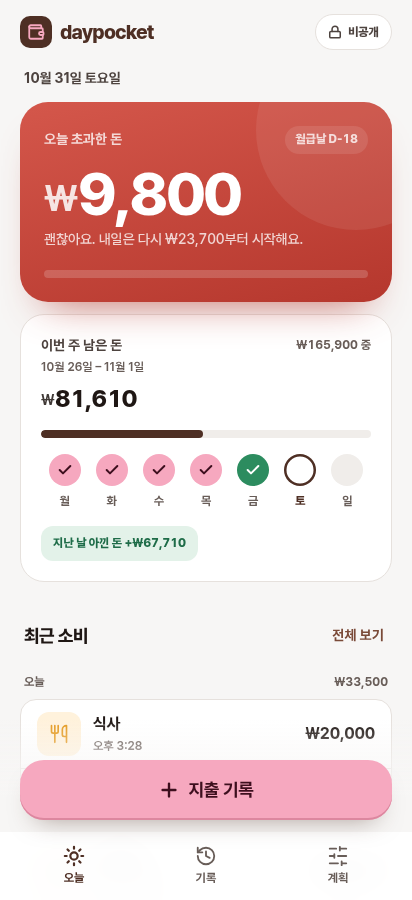
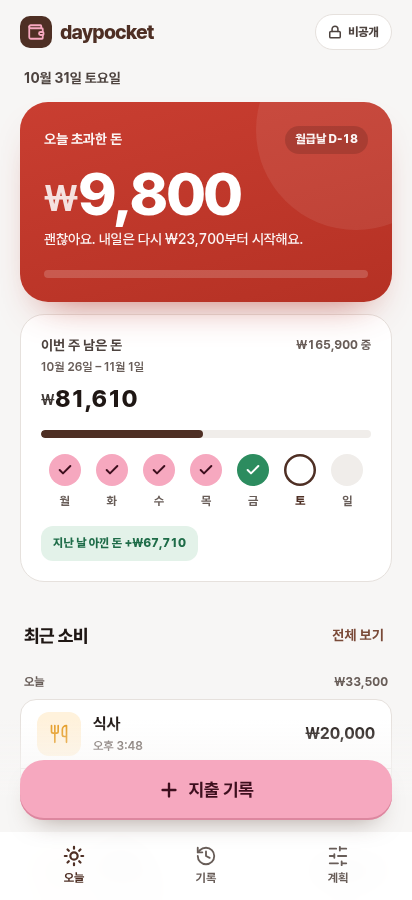
Final five palettes: J navy & lime refined, H, I, K merlot & ice, L olive & mango
- J keeps the original navy and lime; removes lime glow and circle, adds depth gradient
- K and L fill the chic and natural concepts; key hues stay 47+ deg apart
- Unify the over-budget card red across all palettes so small white text passes 4.5:1
- PALETTES.md: final board, concept and hue checks, contrast table; earlier picks kept for reference

diff --git a/prototype/themes/olive.css b/prototype/themes/olive.css
@@ -1,0 +1,23 @@
+/* L. 올리브 & 망고 — palette candidate. Dark olive main with a bright mango key.
+   Overrides tokens in ../styles.css. See ../PALETTES.md. */
+:root {
+  --navy-900:#262E14; --navy-700:#38431F; --navy-500:#56662B;
+  --lime-400:#FFB547; --lime-600:#E0952A; --lime-ink:#3A2400;
+  --bg:#F5F6F4; --surface:#FFFFFF; --fill:#EDEFEA; --line:#E1E4DC;
+  --text-1:#171B12; --text-2:#444B3C; --text-3:#5F6657; --text-4:#A9AEA2;
+  --pos:#2C8C5F; --pos-soft:#E2F2E8; --pos-ink:#1E6C48;
+  --neg:#D0453A; --neg-soft:#FCE6E2; --neg-ink:#BC372C;
+  --warn-soft:#FFF4DC; --warn-ink:#6A4E10;
+}
+body { background:#E5E7E1; }
+.hero, .stat.hero-stat, .dark { background: linear-gradient(165deg, #4B5A2A 0%, #38431F 55%, #2B3417 100%); }
+.hero { box-shadow: 0 24px 40px -26px rgba(38,46,20,.85); }
+.hero::after, .stat.hero-stat::after { background:#FFB547; opacity:.1; }
+.dark::after { background:#FFB547; opacity:.14; filter: blur(30px); }
+.hero-badge { background: rgba(0,0,0,.2); color:#fff; }
+.hero.over::after { background:#fff; opacity:.08; }
+.btn-lime { box-shadow: inset 0 -2px 0 var(--lime-600), 0 14px 26px -16px rgba(56,67,31,.5); }
+.priv-pts span { background: rgba(255,181,71,.16); }
+.cal-d.good, .legend .lg-good { background:#FFF0D3; color:#764B00; box-shadow:none; }
+.preview { background:#F1F3EE; }
+.tabbar::before { background: linear-gradient(to top, var(--bg) 30%, rgba(245,246,244,0)); }

diff --git a/prototype/styles.css b/prototype/styles.css
@@ -238,7 +238,8 @@ html[lang="ko"] .eyebrow, html[lang="ko"] .pill-private { letter-spacing: 0; }
 .hero { position: relative; overflow: hidden; padding: var(--s6); border-radius: var(--r-xl); color: #fff; background: radial-gradient(90% 90% at 100% 0%, var(--navy-500) 0%, rgba(51, 70, 184, 0) 60%), var(--navy-700); box-shadow: 0 20px 40px -24px rgba(26, 43, 133, .85); transition: background var(--t-slow) var(--ease), box-shadow var(--t-slow); }
 .hero::after { content: ""; position: absolute; top: -72px; right: -64px; width: 200px; height: 200px; border-radius: 50%; background: var(--lime-400); opacity: .12; pointer-events: none; }
 .hero > * { position: relative; z-index: 1; }
-.hero.over { background: radial-gradient(90% 90% at 100% 0%, #F07B6C 0%, rgba(240, 123, 108, 0) 60%), var(--neg); box-shadow: 0 20px 40px -24px rgba(210, 63, 49, .85); }
+/* Over budget: one red for every palette, dark enough that small white text stays above 4.5:1. */
+.hero.over { --on-dark-2: rgba(255, 255, 255, .95); --on-dark-3: rgba(255, 255, 255, .95); --on-dark-fill: rgba(0, 0, 0, .14); background: linear-gradient(165deg, #C93E31 0%, #B53124 100%); box-shadow: 0 20px 40px -24px rgba(181, 49, 36, .8); }
 .hero.over::after { background: #fff; opacity: .1; }
 .hero-top { display: flex; justify-content: space-between; align-items: center; }
 .hero-label { font-size: 14px; font-weight: 700; color: var(--on-dark-2); }

diff --git a/prototype/themes/merlot.css b/prototype/themes/merlot.css
@@ -1,0 +1,22 @@
+/* K. 멀롯 & 아이스 — palette candidate. Warm wine main with a cool ice-blue key.
+   Overrides tokens in ../styles.css. See ../PALETTES.md. */
+:root {
+  --navy-900:#3A0F25; --navy-700:#561B3A; --navy-500:#8A3562;
+  --lime-400:#BFE0FF; --lime-600:#8FC0EE; --lime-ink:#0B2A4A;
+  --bg:#F7F6F8; --surface:#FFFFFF; --fill:#F0EDF0; --line:#E6E1E6;
+  --text-1:#1E1419; --text-2:#4C4047; --text-3:#675B62; --text-4:#B1A7AD;
+  --pos:#1F9D63; --pos-soft:#E2F5EC; --pos-ink:#157A4B;
+  --neg:#D9443A; --neg-soft:#FDE7E4; --neg-ink:#C1362B;
+  --warn-soft:#FFF6D6; --warn-ink:#6B5300;
+}
+body { background:#E8E4E8; }
+.hero, .stat.hero-stat, .dark { background: linear-gradient(165deg, #742A4F 0%, #561B3A 55%, #43142D 100%); }
+.hero { box-shadow: 0 24px 40px -26px rgba(58,15,37,.85); }
+.hero::after, .stat.hero-stat::after { background:#BFE0FF; opacity:.1; }
+.dark::after { background:#BFE0FF; opacity:.14; filter: blur(30px); }
+.hero.over::after { background:#fff; opacity:.08; }
+.btn-lime { box-shadow: inset 0 -2px 0 var(--lime-600), 0 14px 26px -16px rgba(86,27,58,.5); }
+.priv-pts span { background: rgba(191,224,255,.16); }
+.cal-d.good, .legend .lg-good { background:#E6F1FF; color:#1E4E86; box-shadow:none; }
+.preview { background:#F3EFF3; }
+.tabbar::before { background: linear-gradient(to top, var(--bg) 30%, rgba(247,246,248,0)); }

diff --git a/prototype/themes/navylime.css b/prototype/themes/navylime.css
@@ -1,0 +1,15 @@
+/* J. 네이비 & 라임 (다듬은 버전) — the original colors, kept, with the cheap-looking effects removed.
+   Same navy and lime as the default; cooler neutral background; no lime glow; no big circle.
+   Overrides tokens in ../styles.css. See ../PALETTES.md. */
+:root {
+  --navy-900:#111C5C; --navy-700:#1A2B85; --navy-500:#3346B8;
+  --lime-400:#CFF56B; --lime-600:#A6D33B; --lime-ink:#1C2606;
+  --bg:#F5F6FA; --surface:#FFFFFF; --fill:#EDF0F7; --line:#E2E5EE;
+}
+body { background:#E4E7EF; }
+.hero, .stat.hero-stat, .dark { background: linear-gradient(165deg, #2A3DA6 0%, #1A2B85 55%, #142270 100%); }
+.hero { box-shadow: inset 0 1px 0 rgba(207,245,107,.35), 0 24px 40px -26px rgba(26,43,133,.85); }
+.hero::after, .hero.over::after, .stat.hero-stat::after { opacity: 0; }
+.dark::after { opacity: .1; filter: blur(40px); }
+.btn-lime { box-shadow: inset 0 -2px 0 var(--lime-600), 0 14px 26px -16px rgba(26,43,133,.55); }
+.tabbar::before { background: linear-gradient(to top, var(--bg) 30%, rgba(245,246,250,0)); }

diff --git a/prototype/themes/plum.css b/prototype/themes/plum.css
@@ -12,7 +12,6 @@ body { background:#EAE3E2; }
 .hero, .stat.hero-stat, .dark { background: linear-gradient(165deg, #452A68 0%, #2D1A45 60%, #23143A 100%); }
 .hero { box-shadow: 0 24px 40px -28px rgba(28,15,43,.9); }
 .hero::after, .stat.hero-stat::after, .dark::after { background:#FFD45E; opacity:.13; }
-.hero.over { background: linear-gradient(165deg, #E0566E 0%, #BB2F4A 100%); }
 .hero.over::after { background:#fff; opacity:.1; }
 .btn-lime { box-shadow: inset 0 -2px 0 var(--lime-600), 0 14px 26px -16px rgba(45,26,69,.55); }
 .cal-d.good, .legend .lg-good { background:#FFF1C4; color:#7A5A00; box-shadow:none; }

diff --git a/prototype/themes/teal.css b/prototype/themes/teal.css
@@ -12,7 +12,6 @@ body { background:#E9E1D4; }
 .hero, .stat.hero-stat, .dark { background: linear-gradient(165deg, #186068 0%, #0F4A52 60%, #0A3C43 100%); }
 .hero { box-shadow: 0 24px 40px -28px rgba(8,52,58,.9); }
 .hero::after, .stat.hero-stat::after, .dark::after { background:#FFB27C; opacity:.14; }
-.hero.over { background: linear-gradient(165deg, #D4573F 0%, #B23A28 100%); }
 .hero.over::after { background:#fff; opacity:.1; }
 .btn-lime { box-shadow: inset 0 -2px 0 var(--lime-600), 0 14px 26px -16px rgba(15,74,82,.55); }
 .cal-d.good, .legend .lg-good { background:#FCE8D9; color:#8A4516; box-shadow:none; }

diff --git a/prototype/themes/midnight.css b/prototype/themes/midnight.css
@@ -13,7 +13,6 @@ body { background:#E7E5DD; }
 .hero { box-shadow: inset 0 1px 0 rgba(215,243,107,.28), 0 24px 40px -28px rgba(10,16,41,.9); }
 .hero::after, .hero.over::after, .stat.hero-stat::after { opacity: 0; }
 .dark::after { opacity: .07; filter: blur(40px); }
-.hero.over { background: linear-gradient(165deg, #D85A4C 0%, #B83A2E 100%); box-shadow: 0 24px 40px -28px rgba(184,58,46,.9); }
 .btn-lime { box-shadow: inset 0 -2px 0 var(--lime-600), 0 14px 26px -16px rgba(18,26,58,.6); }
 .cal-d.good, .legend .lg-good { background:#EFF6CF; color:#4A5A10; box-shadow:none; }
 .preview { background:#F1F0EA; }

diff --git a/prototype/themes/clear.css b/prototype/themes/clear.css
@@ -18,7 +18,6 @@ body { background:#E4EAF1; }
 .hero { box-shadow: 0 24px 40px -26px rgba(9,86,204,.7); }
 .hero::after, .stat.hero-stat::after { background:#fff; opacity:.08; }
 .dark::after { background:#86EEE0; opacity:.16; filter: blur(30px); }
-.hero.over { background: linear-gradient(165deg, #C93E31 0%, #B53124 100%); box-shadow: 0 24px 40px -26px rgba(181,49,36,.75); }
 .hero.over::after { background:#fff; opacity:.08; }
 .hero-badge { background: rgba(4,30,80,.22); color:#fff; }
 .btn-lime { box-shadow: inset 0 -2px 0 var(--lime-600), 0 14px 26px -16px rgba(9,86,204,.45); }

diff --git a/prototype/themes/cocoa.css b/prototype/themes/cocoa.css
@@ -14,7 +14,6 @@ body { background:#E9E5E2; }
 .hero { box-shadow: 0 24px 40px -26px rgba(54,32,26,.85); }
 .hero::after, .stat.hero-stat::after { background:#F6A8BF; opacity:.12; }
 .dark::after { background:#F6A8BF; opacity:.14; filter: blur(30px); }
-.hero.over { background: linear-gradient(165deg, #D4574B 0%, #B5372D 100%); box-shadow: 0 24px 40px -26px rgba(181,55,45,.8); }
 .hero.over::after { background:#fff; opacity:.08; }
 .btn-lime { box-shadow: inset 0 -2px 0 var(--lime-600), 0 14px 26px -16px rgba(78,47,36,.5); }
 .priv-pts span { background: rgba(246,168,191,.16); }

diff --git a/prototype/themes/pine.css b/prototype/themes/pine.css
@@ -13,7 +13,6 @@ body { background:#E5E9E7; }
 .hero { box-shadow: 0 24px 40px -26px rgba(15,46,35,.85); }
 .hero::after, .stat.hero-stat::after { background:#EBCB8B; opacity:.1; }
 .dark::after { background:#EBCB8B; opacity:.12; filter: blur(30px); }
-.hero.over { background: linear-gradient(165deg, #D35A4C 0%, #B53A2E 100%); box-shadow: 0 24px 40px -26px rgba(181,58,46,.8); }
 .hero.over::after { background:#fff; opacity:.08; }
 .btn-lime { box-shadow: inset 0 -2px 0 var(--lime-600), 0 14px 26px -16px rgba(23,64,47,.5); }
 .priv-pts span { background: rgba(235,203,139,.16); }

diff --git a/prototype/theme.js b/prototype/theme.js
@@ -3,7 +3,8 @@
 (function () {
   var THEMES = {
     midnight: '#121A3A', teal: '#0F4A52', plum: '#2D1A45', clear: '#0956CC', pine: '#17402F', mono: '#111111',
-    plumlime: '#2D1A45', cocoa: '#4E2F24', monolav: '#111111'
+    plumlime: '#2D1A45', cocoa: '#4E2F24', monolav: '#111111',
+    navylime: '#1A2B85', merlot: '#561B3A', olive: '#38431F'
   };
   var name = new URLSearchParams(location.search).get('theme');
   if (!Object.prototype.hasOwnProperty.call(THEMES, name)) return;

diff --git a/prototype/PALETTES.md b/prototype/PALETTES.md
@@ -1,93 +1,88 @@
 # 색 조합 시안
 
-기본 화면(`styles.css`)은 바꾸지 않았고, 각 시안은 `themes/` 폴더의 CSS가 색 기준값(토큰)만 덮어씁니다. 주소 끝에 `?theme=이름`을 붙이면 실제 앱이 그 색으로 열립니다. "샘플 데이터로 둘러보기"를 누르면 오늘·기록·계획 화면까지 볼 수 있습니다.
+기본 화면(`styles.css`)의 색은 바꾸지 않았고, 각 시안은 `themes/` 폴더의 CSS가 색 기준값(토큰)만 덮어씁니다. 주소 끝에 `?theme=이름`을 붙이면 실제 앱이 그 색으로 열립니다. "샘플 데이터로 둘러보기"를 누르면 오늘·기록·계획 화면까지 볼 수 있습니다.
 
-## 추천 5개
-![추천 5개 비교](palettes/picks-board.png)
+## 최종 후보 5개
+![최종 후보 5개](palettes/final-board.png)
 
-| | 이름 | 바탕 / 메인 / 키 | 맡는 자리 | 링크 |
+| | 이름 | 바탕 / 메인 / 키 | 컨셉 | 링크 |
 |---|---|---|---|---|
-| D | 클리어 블루 & 아쿠아 | `#F6F8FB` / `#0956CC` / `#86EEE0` | 차갑고 가벼운 | https://smhan-dev.github.io/household-ledger-app/prototype/?theme=clear |
-| E | 윈터 파인 & 샴페인 | `#F6F7F7` / `#17402F` / `#EBCB8B` | 겨울, 차분한 온기 | https://smhan-dev.github.io/household-ledger-app/prototype/?theme=pine |
-| G | 플럼 & 라임 (새로 만듦) | `#F7F6F9` / `#2D1A45` / `#CFF56B` | 개성, 처음 라임 계승 | https://smhan-dev.github.io/household-ledger-app/prototype/?theme=plumlime |
-| H | 코코아 & 로즈 (새로 만듦) | `#F7F6F5` / `#4E2F24` / `#F6A8BF` | 따뜻한 메인 색 | https://smhan-dev.github.io/household-ledger-app/prototype/?theme=cocoa |
-| I | 모노 & 라벤더 (새로 만듦) | `#F5F5F5` / `#111111` / `#C4B5FD` | 미니멀 | https://smhan-dev.github.io/household-ledger-app/prototype/?theme=monolav |
+| J | 네이비 & 라임 (다듬은 버전) | `#F5F6FA` / `#1A2B85` / `#CFF56B` | 에너지, 스포티 | https://smhan-dev.github.io/household-ledger-app/prototype/?theme=navylime |
+| H | 코코아 & 로즈 | `#F7F6F5` / `#4E2F24` / `#F6A8BF` | 따뜻함, 디저트 | https://smhan-dev.github.io/household-ledger-app/prototype/?theme=cocoa |
+| I | 블랙 & 라벤더 | `#F5F5F5` / `#111111` / `#C4B5FD` | 미니멀, 모던 | https://smhan-dev.github.io/household-ledger-app/prototype/?theme=monolav |
+| K | 멀롯 & 아이스 (새로 만듦) | `#F7F6F8` / `#561B3A` / `#BFE0FF` | 시크, 럭셔리 | https://smhan-dev.github.io/household-ledger-app/prototype/?theme=merlot |
+| L | 올리브 & 망고 (새로 만듦) | `#F5F6F4` / `#38431F` / `#FFB547` | 내추럴, 대담함 | https://smhan-dev.github.io/household-ledger-app/prototype/?theme=olive |
 
-### 겹치는지 어떻게 쟀나
-색을 사람 눈에 가까운 OKLCH 방식으로 바꿔서 색상 각도(빨강 0°, 노랑 약 90°, 초록 약 140°, 파랑 약 260°)를 비교했습니다. 각도 차이가 10° 안쪽이면 같은 색으로 보입니다.
+처음 버전 그대로는 https://smhan-dev.github.io/household-ledger-app/prototype/ 에서 볼 수 있습니다.
 
-**추천 5개 사이의 간격**
-- 키 색: 로즈 0°, 샴페인 84°, 라임 123°, 아쿠아 184°, 라벤더 294°. 가장 가까운 쌍이 E와 G로 39° 떨어져 있습니다.
-- 메인 색: 코코아 40°, 소나무 163°, 코발트 260°, 플럼 302°, 검정(무채색). 가장 가까운 쌍이 D와 G로 42° 떨어져 있습니다.
-- 한 시안 안에서도 바탕(밝기 97~98), 카드(100), 메인(18~49), 키(77~92)의 밝기가 서로 겹치지 않습니다.
+### J: 처음 버전에서 바꾼 것
+네이비(`#1A2B85`)와 라임(`#CFF56B`) 값은 그대로 두고, 싸 보이던 효과만 걷어냈습니다.
+1. 라임 버튼 아래의 라임색 빛 번짐을 네이비 그림자로 바꿨습니다.
+2. 카드 오른쪽 위의 큰 라임 원을 없앴습니다.
+3. 카드를 위에서 아래로 짙어지는 그라데이션으로 바꾸고, 카드 위쪽 가장자리에 얇은 라임 빛 선을 넣었습니다.
+4. 바탕과 입력칸의 푸른 기를 조금 뺐습니다.
 
-### 걸러낸 시안과 이유
-| 시안 | 겹친 곳 | 처리 |
-|---|---|---|
-| 현재 vs A | 메인 2°, 키 4° 차이. 사실상 같은 조합 | 둘 다 뺌. 라임 키는 G로 옮김 |
-| C 플럼 & 버터 | 키(버터)가 E의 샴페인과 5° 차이 | 플럼은 살리고 키를 라임으로 바꿔 G로 만듦 |
-| B 샌드 & 딥틸 | E와 구조가 같음(짙은 청록·초록 메인 + 따뜻한 키). 키/메인 대비도 5.6으로 가장 낮음 | 뺌 |
-| F 모노 | 키가 흰색이라 밝은 화면에서 버튼이 검정(=메인)이 됨. 메인과 키가 같은 층으로 겹침 | 라벤더 키를 하나 더해 I로 만듦 |
+### 새로 만든 두 개
+- **K. 멀롯 & 아이스**: 짙은 와인색 메인에 얼음 같은 하늘색 키. 따뜻한 메인과 차가운 키라는 반대 온도 조합이라 다섯 중 가장 고급스럽게 보입니다.
+- **L. 올리브 & 망고**: 짙은 올리브 메인에 선명한 망고색 키. 다섯 중 키가 가장 진하고 쨍해서, 화면에서 버튼이 가장 먼저 눈에 들어옵니다.
 
-### 새로 채운 영역
-- **따뜻한 메인 색(H)**: 기존 일곱 개의 메인은 모두 파랑·초록·보라·무채색이었고, 갈색·주황 같은 따뜻한 메인이 없었습니다. Pantone이 2025년 올해의 색으로 갈색인 [Mocha Mousse](https://www.pantone.com/na/en-us/color-of-the-year/2025)를 골랐을 만큼 갈색은 지금 친숙한 색이라 코코아를 메인으로 썼습니다.
-- **바탕**: Pantone 2026 올해의 색은 흰색인 [Cloud Dancer](https://www.pantone.com/articles/press-releases/pantone-announces-color-of-the-year-2026-cloud-dancer)입니다. 다섯 시안 모두 바탕을 거의 흰색으로 두되, 아이보리처럼 노란 기가 도는 흰색은 피했습니다.
+### 겹치지 않는지 잰 방법
+색을 사람 눈에 가까운 OKLCH 방식으로 바꿔서 색상 각도(빨강 0°, 노랑 약 90°, 초록 약 140°, 파랑 약 260°)를 비교했습니다. 10° 안쪽이면 같은 색으로 보입니다.
+- **키 색**: 로즈 0°, 망고 73°, 라임 123°, 아이스 247°, 라벤더 294°. 가장 가까운 쌍은 아이스와 라벤더로 47° 떨어져 있습니다.
+- **메인 색**: 멀롯 351°, 코코아 40°, 올리브 123°, 네이비 268°, 검정(무채색). 가장 가까운 쌍은 멀롯과 코코아로 49° 떨어져 있습니다.
+- **컨셉**: 에너지(J), 따뜻함(H), 미니멀(I), 시크(K), 내추럴(L)로 서로 다른 자리를 맡습니다.
 
-### 추천 5개의 주의점
-- **D**: 토스처럼 파랑을 대표색으로 쓰는 금융 앱과 같은 계열이라([토스 디자인 시스템 정리](https://github.com/rohitg00/awesome-claude-design/blob/main/design-md/playful/toss.md)) 개성은 아쿠아 키가 맡아야 합니다.
-- **E**: 메인(소나무)과 "무지출" 초록이 같은 계열입니다.
-- **G**: 플럼(302°)과 라임(123°)은 색상환에서 정반대인 보색이라 키가 가장 강하게 튑니다. 대신 화면이 다른 시안보다 활기차 보입니다.
-- **H**: 로즈(0°)가 초과 빨강(29°)과 가깝습니다. 그래서 달력의 "예산 안" 날짜는 분홍 대신 코코아 빛으로 칠했고, 주간 점은 로즈(체크)와 연한 빨강(X)으로 구분됩니다.
-- **I**: 라벤더(294°)가 G의 플럼 메인(302°)과 같은 보라 계열입니다. 같은 시안 안에서는 겹치지 않지만, I와 G를 함께 둘 경우 "보라"가 두 번 나옵니다.
+### 주의점
+- **K**: 와인색은 빨강 계열이라 평소 카드가 "초과"처럼 보일 수 있습니다. 초과 카드는 훨씬 밝은 빨강이라 바뀌는 것은 분명히 보이지만, 실제 폰에서 느낌을 확인해 보는 게 좋습니다.
+- **L**: 올리브 메인(123°)이 J의 라임 키(123°)와 색상 각도가 같습니다. 올리브는 어둡고 탁하고 라임은 밝고 쨍해서 다르게 보이지만, J와 L을 함께 쓰면 같은 계열이 두 번 나옵니다. 망고는 초과 빨강과 44° 떨어져 있고 훨씬 밝아서 경고색으로 읽히지는 않습니다.
+- **H**: 로즈가 초과 빨강과 가까워서, 달력의 "예산 안" 날짜는 분홍 대신 코코아 빛으로 칠했습니다.
+
+## 모든 시안에 공통으로 바꾼 것: 초과 카드 색
+대비를 다시 재 보니, 시안마다 조금씩 달랐던 초과 카드의 빨강 위에서 작은 흰 글자의 대비가 2.6~2.9:1밖에 안 됐습니다(기준 4.5:1). 그래서 기본 화면을 포함한 모든 시안의 초과 카드를 같은 빨강(`#C93E31` → `#B53124`)으로 통일하고, 그 위 보조 글자를 더 진하게 했습니다.
+
+| 초과 카드 위 | 대비 |
+|---|---|
+| 큰 숫자 | 5.0 |
+| 보조 글자 | 4.6 |
+| D-day 배지 | 5.9 |
 
 ## 글자 대비 (4.5:1 이상이면 작은 글자도 읽기 충분)
 | | 메인 위 흰 글자 | 메인 위 키 색 | 키 버튼 위 글자 | 바탕 위 캡션 | 바탕 위 링크 | 흰 바탕 위 초과 |
 |---|---|---|---|---|---|---|
-| D | 6.5 | 4.8 | 9.2 | 5.5 | 5.8 | 5.5 |
-| E | 11.6 | 7.4 | 9.5 | 5.6 | 6.9 | 5.9 |
-| G | 15.6 | 12.6 | 12.7 | 5.8 | 8.0 | 5.3 |
+| J | 12.2 | 9.8 | 12.7 | 4.9 | 7.2 | 5.3 |
 | H | 12.0 | 6.4 | 8.8 | 5.9 | 6.8 | 6.1 |
 | I | 18.9 | 10.2 | 8.9 | 5.3 | 10.4 | 5.3 |
+| K | 13.0 | 9.5 | 10.6 | 6.0 | 7.0 | 5.5 |
+| L | 10.5 | 6.0 | 8.3 | 5.5 | 5.8 | 5.6 |
 
-## 추천 5개 화면별 캡처
+L의 D-day 배지는 처음에 4.1이었습니다. 배지 바탕을 살짝 어둡게 바꿔서 9.8이 됐습니다.
+
+## 최종 후보 화면별 캡처
 | | 첫 화면 | 오늘 | 예산 초과 | 기록 |
 |---|---|---|---|---|
-| D | ![](palettes/clear-1-welcome.png) | ![](palettes/clear-2-today.png) | ![](palettes/clear-3-over.png) | ![](palettes/clear-4-history.png) |
-| E | ![](palettes/pine-1-welcome.png) | ![](palettes/pine-2-today.png) | ![](palettes/pine-3-over.png) | ![](palettes/pine-4-history.png) |
-| G | ![](palettes/plumlime-1-welcome.png) | ![](palettes/plumlime-2-today.png) | ![](palettes/plumlime-3-over.png) | ![](palettes/plumlime-4-history.png) |
+| J | ![](palettes/navylime-1-welcome.png) | ![](palettes/navylime-2-today.png) | ![](palettes/navylime-3-over.png) | ![](palettes/navylime-4-history.png) |
 | H | ![](palettes/cocoa-1-welcome.png) | ![](palettes/cocoa-2-today.png) | ![](palettes/cocoa-3-over.png) | ![](palettes/cocoa-4-history.png) |
 | I | ![](palettes/monolav-1-welcome.png) | ![](palettes/monolav-2-today.png) | ![](palettes/monolav-3-over.png) | ![](palettes/monolav-4-history.png) |
+| K | ![](palettes/merlot-1-welcome.png) | ![](palettes/merlot-2-today.png) | ![](palettes/merlot-3-over.png) | ![](palettes/merlot-4-history.png) |
+| L | ![](palettes/olive-1-welcome.png) | ![](palettes/olive-2-today.png) | ![](palettes/olive-3-over.png) | ![](palettes/olive-4-history.png) |
 
 ---
 
-## 참고: 이전 시안 전체 (현재, A~F)
-걸러낸 시안도 비교용으로 남겨 두었습니다.
+## 참고: 이전 시안
+비교용으로 남겨 두었습니다. 아래 캡처는 초과 카드 색을 통일하기 전에 찍은 것이고, 링크로 열면 통일된 색으로 보입니다.
 
-![이전 시안 비교](palettes/board.png)
+| 시안 | 링크 |
+|---|---|
+| A. 미드나잇 시트론 | https://smhan-dev.github.io/household-ledger-app/prototype/?theme=midnight |
+| B. 샌드 & 딥틸 | https://smhan-dev.github.io/household-ledger-app/prototype/?theme=teal |
+| C. 플럼 & 버터 | https://smhan-dev.github.io/household-ledger-app/prototype/?theme=plum |
+| D. 클리어 블루 & 아쿠아 | https://smhan-dev.github.io/household-ledger-app/prototype/?theme=clear |
+| E. 윈터 파인 & 샴페인 | https://smhan-dev.github.io/household-ledger-app/prototype/?theme=pine |
+| F. 모노 (흰 키) | https://smhan-dev.github.io/household-ledger-app/prototype/?theme=mono |
+| G. 플럼 & 라임 | https://smhan-dev.github.io/household-ledger-app/prototype/?theme=plumlime |
 
-| 시안 | 바탕 / 메인 / 키 | 링크 |
-|---|---|---|
-| 현재: 네이비 & 라임 | `#F4F5FA` / `#1A2B85` / `#CFF56B` | https://smhan-dev.github.io/household-ledger-app/prototype/ |
-| A. 미드나잇 시트론 | `#F5F4EF` / `#121A3A` / `#D7F36B` | https://smhan-dev.github.io/household-ledger-app/prototype/?theme=midnight |
-| B. 샌드 & 딥틸 | `#F4EEE5` / `#0F4A52` / `#FFB27C` | https://smhan-dev.github.io/household-ledger-app/prototype/?theme=teal |
-| C. 플럼 & 버터 | `#F6F2EF` / `#2D1A45` / `#FFD45E` | https://smhan-dev.github.io/household-ledger-app/prototype/?theme=plum |
-| F. 모노 | `#F5F5F5` / `#111111` / `#FFFFFF` | https://smhan-dev.github.io/household-ledger-app/prototype/?theme=mono |
-
-| | 메인 위 흰 글자 | 메인 위 키 색 | 키 버튼 위 글자 | 바탕 위 캡션 | 바탕 위 링크 | 흰 바탕 위 초과 |
-|---|---|---|---|---|---|---|
-| 현재 | 12.2 | 9.8 | 12.7 | 4.8 | 7.1 | 5.3 |
-| A | 17.0 | 13.7 | 13.6 | 5.2 | 9.8 | 5.9 |
-| B | 9.9 | 5.6 | 8.9 | 4.9 | 5.5 | 6.3 |
-| C | 15.6 | 11.0 | 11.1 | 5.4 | 8.4 | 6.1 |
-| F | 18.9 | 18.9 | 18.9 | 5.3 | 10.4 | 5.3 |
-
-| | 첫 화면 | 오늘 | 예산 초과 | 기록 |
-|---|---|---|---|---|
-| 현재 | ![](palettes/current-1-welcome.png) | ![](palettes/current-2-today.png) | ![](palettes/current-3-over.png) | ![](palettes/current-4-history.png) |
-| A | ![](palettes/midnight-1-welcome.png) | ![](palettes/midnight-2-today.png) | ![](palettes/midnight-3-over.png) | ![](palettes/midnight-4-history.png) |
-| B | ![](palettes/teal-1-welcome.png) | ![](palettes/teal-2-today.png) | ![](palettes/teal-3-over.png) | ![](palettes/teal-4-history.png) |
-| C | ![](palettes/plum-1-welcome.png) | ![](palettes/plum-2-today.png) | ![](palettes/plum-3-over.png) | ![](palettes/plum-4-history.png) |
-| F | ![](palettes/mono-1-welcome.png) | ![](palettes/mono-2-today.png) | ![](palettes/mono-3-over.png) | ![](palettes/mono-4-history.png) |
+![이전 추천 5개 (D, E, G, H, I)](palettes/picks-board.png)
+![처음 비교한 7개 (현재, A~F)](palettes/board.png)
 
 ## 정한 뒤에 할 일
 고른 시안의 `themes/*.css` 값을 `styles.css`의 `:root`와 `DESIGN.md` 2장에 옮기고, `themes/` 폴더와 `theme.js`는 지웁니다. 여러 개를 앱 안의 테마 선택 기능으로 남기는 것도 가능합니다.
